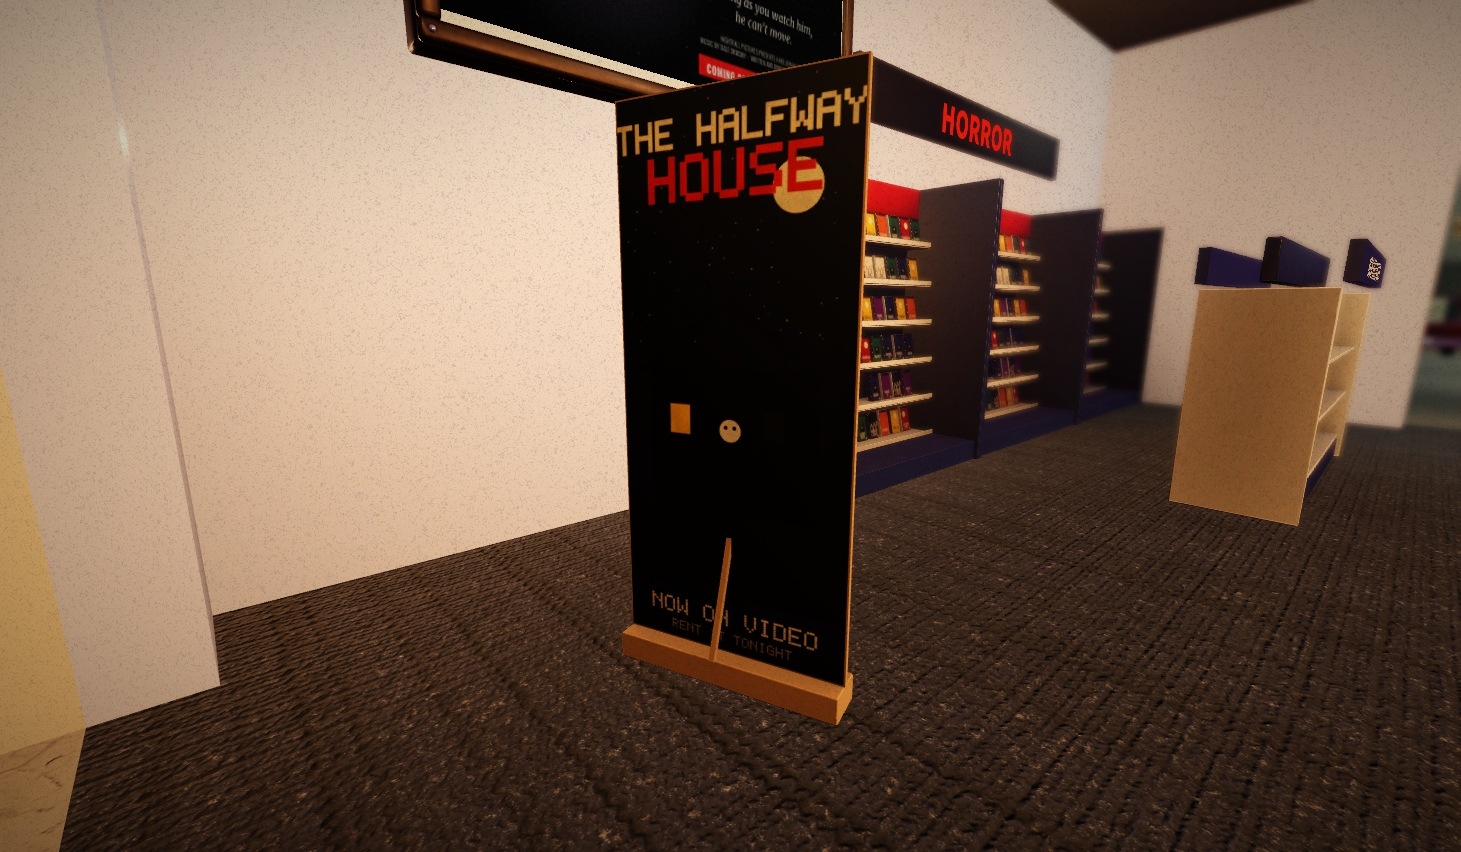
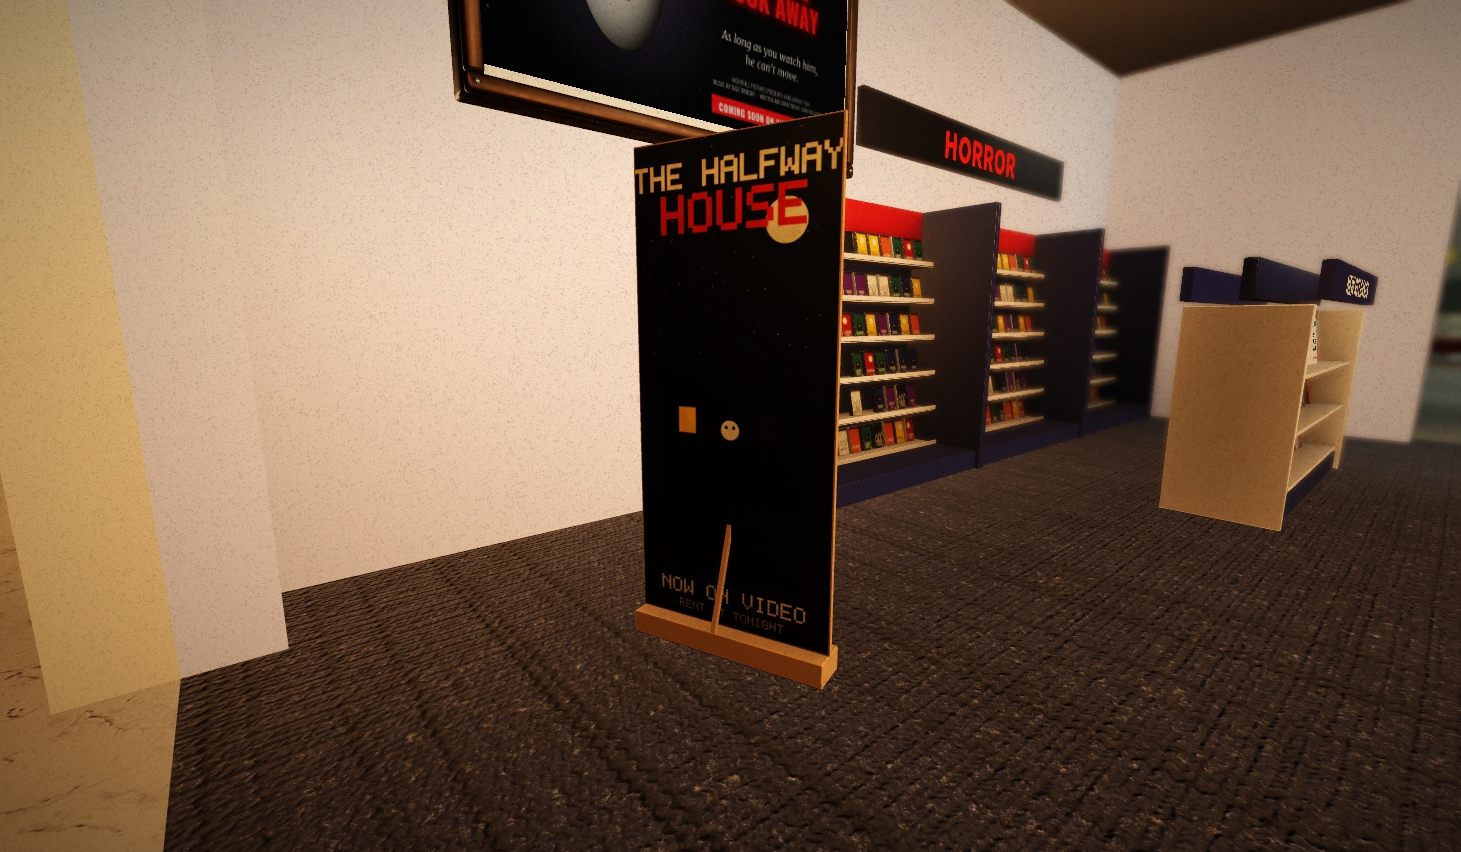
The video store's standee imported: its strut behind the board (build .236)
The owner imported the rebuilt standee (kitlib/mall2). Filed in Data/Kit
(mesh, size and centre as the build measured) and assets/kit (its maps).
Seen in Studio from the front and the side: nothing crosses the poster,
the strut leans from the board's back to the floor behind it. TC-362.

diff --git a/CLAUDE.md b/CLAUDE.md
@@ -185,7 +185,7 @@ These constrain every pass; the reasons and dates are in the plan docs and `docs
 
 ## Where we are (2026-10-17)
 
-Build `2026-10-17.235` on `claude/overnight-foundation`, 754 tests.
+Build `2026-10-17.236` on `claude/overnight-foundation`, 754 tests.
 
 - **Built:** the escape loop (rework R0 to R2c); the mansion generator and its navigation (M1 to M3); the level design L1 to L3 except its last item; the foundation and loop passes (Dread, stuck-assist, the bot, the Reckoning, the short night); the Guest rework (moods, temperaments, the mask, his animations); the fixes from three squad playtests; the readable Guest (his three rules, pestering, the family's valuables); the torch on F with your own arms and legs. The visual pass's steps 1 to 6, the polish pass and visual audit round 1.
 - **The full visual rework, V0 to V8 done, V9 paused** (the owner, 2026-10-12: "the gameplay is in a good spot"; P.T. on 35mm film, models made in Blender, a diegetic 1988 UI, PC-first presets, a building storm, a few cutscenes, standard bodies in modular 80s clothing for a later shop). The plan, V0 to V9, is `docs/plans/visual-rework.md`, which opens with a table of each phase's state; each phase's report (what was built, the owner's picks, the F2 commands it added) is in `docs/progress/<date>-visual-v<n>/`.
@@ -218,7 +218,7 @@ Build `2026-10-17.235` on `claude/overnight-foundation`, 754 tests.
      - **LB6's immersive ads (build .230):** seven frames only where a mall had ads (`Data/Mall` `Ads`): the court's four lightboxes (not moved; their light now in front, since an AdGui is lit by the scene), two COMING SOON frames on the video store's side walls by the way in (its front has the bulb string and a sign across it), and a big projection screen behind the electronics window's sets (the sets are under Roblox's 8 x 4.5 minimum; the only frame taking video, and autoplay or click-to-play is the advertiser's bid, not ours). `Logic/Ads` (spec'd) and `MallLayout.adBlockers` (now signs too). An AdGui goes up only once the frame's own poster is uploaded (`Data/Posters` `image`): without a fallback image it shows Roblox's grey card with its logo (seen in Studio). A player PolicyService won't show ads gets our poster on their own copy (`Controllers/AdController`, `World/AdPoster`). Our seven 1988 posters are drawn from code (`tools/posters.py`, `assets/posters/`). F2 `ads`. Report: `docs/progress/2026-10-16-lobby-lb6/`, TC-347 to TC-350.
      - **The ad frames on (build .231):** the owner kept the seven posters as drawn, and they were uploaded with their OK (ids in `Data/Posters`). Seen in Studio: every frame's AdGui up with our poster as its fallback, and a denied player's own copy of each.
      - **Published and playtested (build .232):** the owner published .231. Their four notes are fixed: HOUSE CALL's camera no longer sits behind your head (your body hidden while you play, a slip with the controls and Leave); a rack's mirror camera no longer stands in the rack (`Config.Fitting`, `Logic/Closet.mirrorTurn`); everyone else hidden in the fitting room (their ask); and no lamp light through walls from far rooms (a far lamp you can't see fades out, `EffectsController` `canSee`). Report: `docs/progress/2026-10-16-playtest-fixes/`, TC-351 to TC-354.
-     - **Polish for the release (2026-10-17, the owner: release by the end of the weekend):** report `docs/progress/2026-10-17-polish/`. The piano: the puzzle was never broken; most Music Rooms have no music box, so their piano only pushed. A piano that isn't the music box's is a lure now (`Data/Interactables` `Piano`, `RoomPurpose.puzzleTakes`; build .233, TC-355, seen in Studio). The walk (build .234): the camera back level after a cutscene (runs started looking at the floor), a window behind every curtain on an outer wall (`Logic/Windows`), HOUSE CALL drawn in front of the cabinet's joystick, the hiding line whole, the shelf's Put back, the hub and squad list below Roblox's topbar, and the standee's strut rebuilt (waits on the owner's import: `build\kit\mall2_Standee`). THE NIGHT IN NUMBERS on the incident report only in Studio and for `Config.Debug.AllowedUserIds` (the owner's choice; build .235). TC-356 to TC-363.
+     - **Polish for the release (2026-10-17, the owner: release by the end of the weekend):** report `docs/progress/2026-10-17-polish/`. The piano: the puzzle was never broken; most Music Rooms have no music box, so their piano only pushed. A piano that isn't the music box's is a lure now (`Data/Interactables` `Piano`, `RoomPurpose.puzzleTakes`; build .233, TC-355, seen in Studio). The walk (build .234): the camera back level after a cutscene (runs started looking at the floor), a window behind every curtain on an outer wall (`Logic/Windows`), HOUSE CALL drawn in front of the cabinet's joystick, the hiding line whole, the shelf's Put back, the hub and squad list below Roblox's topbar, and the standee's strut rebuilt (imported and filed, build .236). THE NIGHT IN NUMBERS on the incident report only in Studio and for `Config.Debug.AllowedUserIds` (the owner's choice; build .235). TC-356 to TC-363.
      - **Next:** the owner plays HOUSE CALL by hand and settles the story's voices and names (questions 5 and 6), then 7B's unlocking pages. LB6's ads are on and wait only on ad eligibility (public, ID and 2-step verified, the questionnaire, 2,000 visitors a month); LB6's photo booth and supporter pack are still to build. The Robux side waits on the owner's products in Creator Hub (ids into `Data/Products`). A dressed player is about 40k triangles, unmeasured on a phone: measure a shop full of outfits (F2 `perf`, `crowd`). V9's hub polish (ART.md's Hub) still to do; the folder is clear of Roblox's topbar since build .234.
   3. **The rest of the visual rework:** V9 without the hub (above).
   4. **The last of L3:** furniture laid out for play (the old M4; `Logic/RoomFurnish` doesn't exist yet; `docs/plans/level-design.md` section 3, part 4, and section 11.2).

diff --git a/docs/progress/2026-10-17-polish/README.md b/docs/progress/2026-10-17-polish/README.md
@@ -45,7 +45,7 @@ The owner, after publishing build .231 and the playtest fixes (.232): "Theres st
 4. **The hiding line read "... · E:".** "Right click: peek · Space: hold your breath · E: leave" was 435 pixels in a 420 box, so its end wrapped out of sight. The box is 560 (`UI/Hud`). `before-hide-hint.jpg`, `after-hide-hint.jpg`. TC-359.
 5. **The shelf kept saying Rent.** With the tape in your hand, E on the shelf puts it back (`RentalService`), but the prompt still said Rent. It says Put back now, for you only (`UI/Lobby`). TC-360.
 6. **Roblox's buttons on the case folder.** The hub's folder started 22 pixels down, under Roblox's menu and chat buttons (the topbar is 58), and the chat hint covered its title. It starts below the topbar now, and the run's squad list (top left, with friends) too. `before-hub.jpg`, `after-hub.jpg`. TC-361. (CLAUDE.md's known limitation "Roblox's chat hint still overlaps the hub's case folder title" is gone.)
-7. **The video store's standee** (the owner, during the walk: "the stand is facing the wrong way and goes through the promotional image"). The easel's strut was tilted forward, through the poster, and its foot stuck out in front. Rebuilt in Blender (`kitlib/mall2` `standee`): the strut leans from the board's back, 1.4 up, to the floor 1.3 behind it. Previews: `before-standee.jpg` (in Studio), `after-standee-front.png`, `after-standee-behind.png` (Blender, no holes). **Waits on the owner's import**, below. TC-362.
+7. **The video store's standee** (the owner, during the walk: "the stand is facing the wrong way and goes through the promotional image"). The easel's strut was tilted forward, through the poster, and its foot stuck out in front. Rebuilt in Blender (`kitlib/mall2` `standee`): the strut leans from the board's back, 1.4 up, to the floor 1.3 behind it. Previews: `after-standee-front.png`, `after-standee-behind.png` (Blender, no holes). Imported by the owner and filed at build .236, below. TC-362.
 
 ### Checked and fine
 
@@ -57,7 +57,7 @@ The owner, after publishing build .231 and the playtest fixes (.232): "Theres st
 
 ### For the owner
 
-- **Import the standee** (Home → Import 3D): `build\kit\mall2_Standee\mall2_Standee.fbx`. Then Claude files its id in `Data/Kit` Parts `Standee` with its new measures (`size = { 2.6, 6.01, 1.58 }, at = { 0, -0.005, -0.54 }`, from the build's report).
+- **Import the standee:** done (the owner: "I imported the fixed movie stand"); filed at build .236, below.
 - **THE NIGHT IN NUMBERS on the incident report** (`report-numbers.jpg`): tier scores, time by tier, his moves, "F2 used 7". It's the playtest read-out (2026-10-06), shown to every player. **Decided** (the owner: "Show THE NIGHT IN NUMBERS only in Studio and to the debug allowlist, not to public players"): done in build .235, below.
 - **The cabinets' joystick** sits on the screen in the mesh itself; the game is drawn in front of it now, so it doesn't show in play. Moving the stick forward in the mesh means three cabinet imports; not worth it before the release.
 - **The camp's work lamp** (`camp-work-lamp.jpg`) throws its cage's shadows in big bars across the case board. Real, and moody; say if you'd rather it lit the board evenly.
@@ -84,3 +84,12 @@ The owner, after publishing build .231 and the playtest fixes (.232): "Theres st
 - `RunOrchestrator` sends each player their incident report with the numbers only when `DebugService:IsAllowed` (Studio, or a user id in `Config.Debug.AllowedUserIds`); everyone else's copy leaves `stats` out, and the report goes from THE FAMILY'S VALUABLES to WHAT IT LEARNED ABOUT YOU. His moods are still taught (they're `summary.moods`, not the numbers). The server's Output (`[Consensus:summary]`), F2 `summary`, the F2 overlay and the `RunSummary` telemetry keep them for every run, so a playtest can still be read back.
 - `Config.Debug.AllowedUserIds` is empty: live, nobody sees the block. To see it in your own live runs, add your user id there (10608525 is your Studio test profile's).
 - **Checked in Studio:** with `AllowInStudio` switched off for one play session (a local edit, not committed), a run's report had no numbers block; switched back on, it had. stylua, selene, `tests/compile`, `rojo build`, and `lune run tests/run` (754 passed). TC-363.
+
+## The standee imported (build .236)
+
+**The owner:** "I imported the fixed movie stand".
+
+- Filed: `Data/Kit` Parts `Standee` (mesh 118671606670787, `size = { 2.6, 6.01, 1.58 }`, `at = { 0, -0.005, -0.54 }`, the build's measures, which the import matched), and its four maps in `assets/kit/Standee.model.json`.
+- **Seen in Studio**, the same two angles: from the front, nothing crosses THE HALFWAY HOUSE poster any more (`before-standee.jpg`, `after-standee.jpg`); from the side, the strut leans from the board's back down to the floor behind it, where it used to cross the board and hang in the air (`before-standee-side.jpg`, `after-standee-side.jpg`). Its foot is on the floor (the mesh's bottom 0.01 below it).
+- The import's own copy is still in Workspace (`Scene.Standee_Node`): the game builds the standee from its id, so it can go (with the owner's OK).
+- Checks: stylua, selene, `tests/compile`, `rojo build`, `lune run tests/run` (754 passed).
